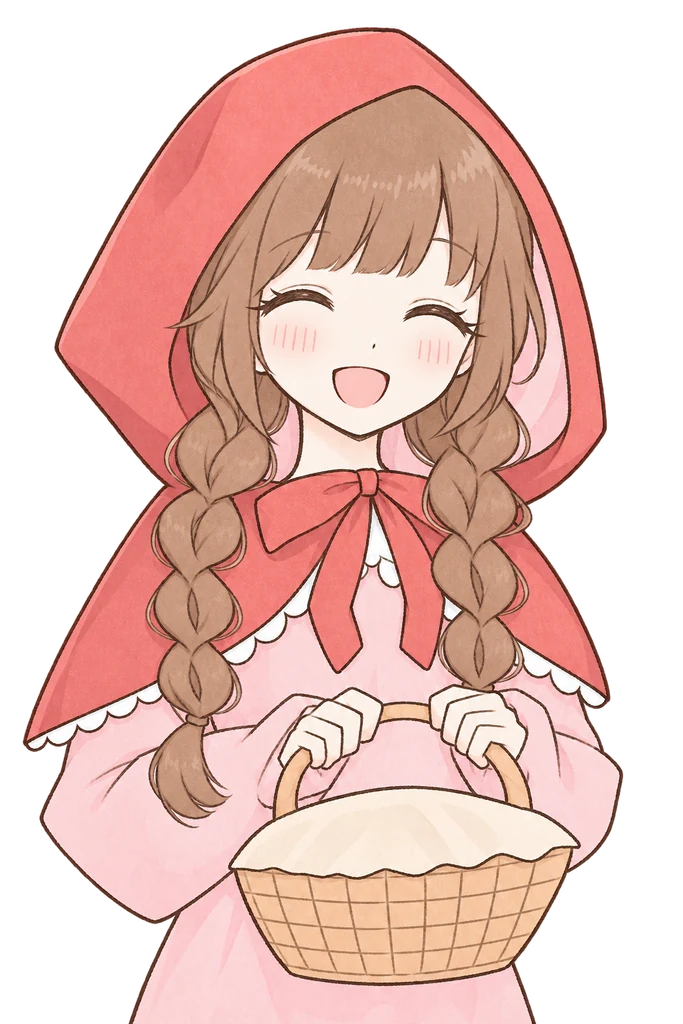
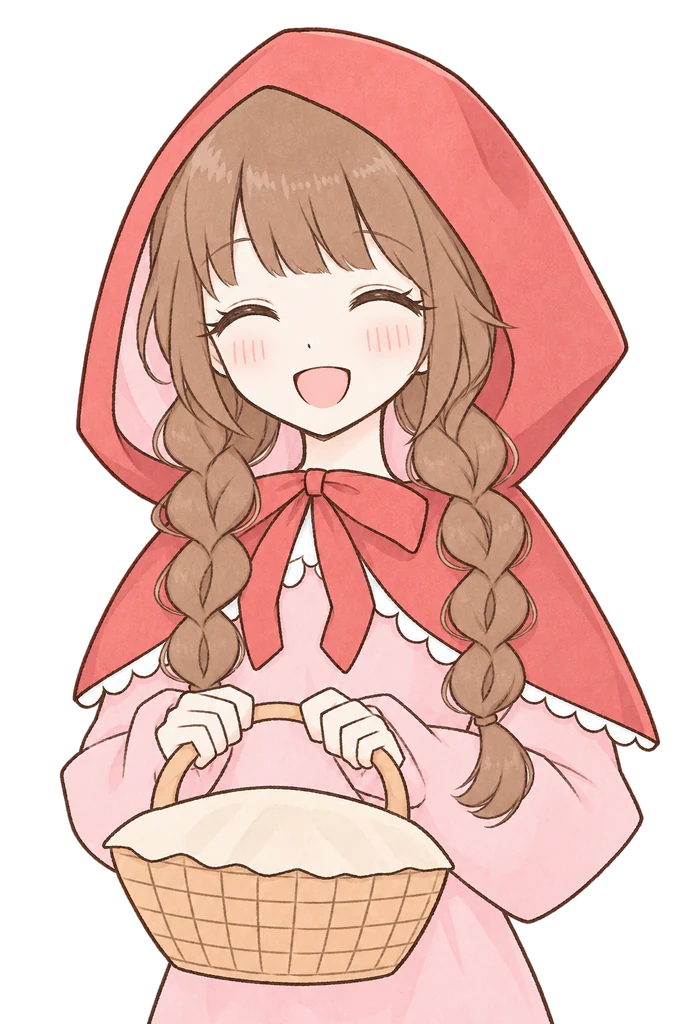
マリは名乗るまで「？？？」、狼がおばあさんのふりをしているあいだは BGM を止める、赤ずきんの立ち絵を左向きに直す

diff --git a/js/engine.js b/js/engine.js
@@ -666,9 +666,12 @@ function nextLine(){
 /* 主人公の名前（序で入力する。GT.flags.playerName にしまうので、セーブにも入る）。
    セリフの t に {name} と書くと、その名前に置きかわる。主人公のセリフ（c:'boy'）の名前の欄にも出る */
 GT.playerName=()=>(GT.flags && GT.flags.playerName) || '少年';
+/* 名前を名乗るまでは「？？？」と出す人（マリ）。flags.mariNamed が false のあいだ（序章で「わたしは、マリ」と名乗るまで）。
+   古いセーブで mariNamed が無いときは、名乗ったあととみなす */
+GT.speakerName=(c,name)=> (c==='mari' && GT.flags && GT.flags.mariNamed===false) ? '？？？' : name;
 const withName=t=>String(t||'').replace(/\{name\}/g, GT.playerName());
 function showLine(line){
-  dlgSpeaker.className='speaker '+(line.c||''); dlgSpeaker.textContent = line.c==='boy' ? GT.playerName() : (line.s||'');
+  dlgSpeaker.className='speaker '+(line.c||''); dlgSpeaker.textContent = line.c==='boy' ? GT.playerName() : GT.speakerName(line.c, line.s||'');
   showPortrait(line.c, line);
   typing=true; typeTarget=withName(line.t); typeI=0; typeAcc=0; dlgLine.textContent=''; dlgHint.style.display='block';
   if(line.ask==='name') showNameAsk();
@@ -1529,7 +1532,7 @@ function drawNpc(n){
   }
   ctx.restore();
   if(n.name){ ctx.save(); ctx.font="600 11px 'Zen Old Mincho',serif"; ctx.textAlign='center';
-    ctx.fillStyle='rgba(74,70,60,0.85)'; ctx.fillText(n.name, cx, g>0 ? headY-12 : headY+20); ctx.restore(); }
+    ctx.fillStyle='rgba(74,70,60,0.85)'; ctx.fillText(GT.speakerName(n.who, n.name), cx, g>0 ? headY-12 : headY+20); ctx.restore(); }
   // 話しかけられる人：頭の上に吹き出しマーク（まだ話していない人だけ。会話中は出さない）
   const canTalk = n.talkable && !n.talked && n.lines && !storyTalking && !dlg.classList.contains('show') && GT.mode==='play';
   // 話しかけないと先へ進めない人は「！」、話さなくても進める人（ヒント・寄り道の会話）は「…」

diff --git a/js/playlist.js b/js/playlist.js
@@ -46,7 +46,7 @@ GT.definePages([
 ]);
 
 // 分岐フラグの初期値（各ステージの choices が書き換える）
-GT.flags = { playerName:null, warnedHood:false, route:null, stoppedAtDoor:false, saved:null, grannyAlive:null,
+GT.flags = { playerName:null, mariNamed:false, warnedHood:false, route:null, stoppedAtDoor:false, saved:null, grannyAlive:null,
              wolfClues:0, houseClues:0, ending:null };
 
 // シーンの並び順（= ゲームの進行順）。id は各ステージファイルで登録したもの。
@@ -119,9 +119,9 @@ const BOY_PORTRAIT=()=> 'assets/character/物憂げな琥珀眼の少年.webp';
    右向きに描かれた絵は GT.portraitMirror に入れておくと、左右反転して左向きにする。
    表情：セリフに f:'smile'（笑顔）/ f:'surprise'（驚き）/ f:'scared'（怯え）/ f:'granny'（おばあさんに化けた狼）と書くと、その表情の絵になる */
 const P='assets/character/';
-GT.portraitMirror = [ P+'水彩タッチの赤ずきん少女.webp' ];   // 少し右向きの絵
+GT.portraitMirror = [];   // いまの絵は、どれも もとから左向き（反転するものはない）
 /* 表情の差分（笑顔・驚き・怯え・口を開いたマリ・化けた狼）の webp は、元の PNG から作るときに
-   ふだんの絵にぴったり重なる位置・大きさ（赤ずきんは反転したあとの姿）に合わせてある。表情を変えても、人物がずれない */
+   ふだんの絵にぴったり重なる位置・大きさに合わせてある。表情を変えても、人物がずれない */
 GT.portraits = {
   boy:   BOY_PORTRAIT,                                           // 少年のセリフ（c:'boy'）
   // 狼：左向き『狡猾な人狼の立ち姿』。おばあさんに化けているセリフ（f:'granny'）は『おばあちゃん狼の不敵な微笑み』

diff --git a/stages/11_house_front.js b/stages/11_house_front.js
@@ -82,13 +82,13 @@ const KNOCK=[
   {s:'赤ずきん',c:'hood',t:'じゃあ、戸を叩くね。'},
   {s:'',c:'narr',t:'赤ずきんが、戸を叩く。',act:'front-knock'},
   {s:'赤ずきん',c:'hood',t:'おばあちゃん、わたしよ。カスタードとバターを持ってきたの。'},
-  {s:'狼',c:'wolf',f:'granny',t:'（おばあさんの声を真似て）糸巻きを引いてごらん。掛け金が外れるよ。'},
+  {s:'狼',c:'wolf',f:'granny',t:'（おばあさんの声を真似て）糸巻きを引いてごらん。掛け金が外れるよ。',act:'bgm-off'},   // ふりをしているあいだは BGM を止める
   {s:'',c:'narr',t:'……おばあさんの声にしては、少しおかしい。'},
   {s:'',c:'narr',t:'赤ずきんが、戸に手を伸ばす。'},
 ];
 const canStop=()=> GT.flags.warnedHood || clueCount()>=2;
 const KNOCK_CHOICES=[
-  { label:'赤ずきんを止める', set:()=>{ GT.flags.stoppedAtDoor = canStop(); }, after:()=>{
+  { label:'赤ずきんを止める', set:()=>{ GT.flags.stoppedAtDoor = canStop(); GT.musicMute && GT.musicMute(false); }, after:()=>{
       if(GT.flags.warnedHood) return [
         {s:'',c:'narr',t:'少年は、赤ずきんのもとへ駆けだした。',act:'front-run'},
         {s:'',c:'narr',t:'少年が手を掴む。'},
@@ -109,7 +109,7 @@ const KNOCK_CHOICES=[
         {s:'',c:'narr',t:'止める間もなく、赤ずきんは先に中へ入っていく。',act:'front-hood-enter'},
       ];
     }},
-  { label:'何もしない', set:()=>{ GT.flags.stoppedAtDoor=false; }, after:[
+  { label:'何もしない', set:()=>{ GT.flags.stoppedAtDoor=false; GT.musicMute && GT.musicMute(false); }, after:[
       {s:'',c:'narr',t:'赤ずきんが掛け金を引き、中へ入っていく。少年もあとに続いた。',act:'front-hood-enter'},
     ]},
 ];

diff --git a/stages/00_opening.js b/stages/00_opening.js
@@ -112,7 +112,7 @@ function MARI_FIRST(c){
   ];
   const tail=[
     {s:'少年',c:'boy',t:'……きみは、だれ？'},
-    {s:'マリ',c:'mari',t:'わたし？　わたしは、マリ。この本のことを、少しだけ知ってるの。'},
+    {s:'マリ',c:'mari',t:'わたし？　わたしは、マリ。この本のことを、少しだけ知ってるの。',act:'mari-named'},   // ここで名乗る（ここから名前の欄が「マリ」になる）
   ];
   return head.concat(mid,tail);
 }
@@ -181,6 +181,7 @@ GT.registerAct('opening-lie',()=>{
   pl.squash=sq; pl.y=FLOOR-pl.h/2-(pl.h/2)*(2-sq);
 });
 GT.registerAct('opening-book-on', ()=>{ st.book.on=true; });
+GT.registerAct('mari-named', ()=>{ GT.flags.mariNamed=true; });
 GT.registerAct('opening-book-off',()=>{ st.book.on=false; });
 
 /* ---------- 毎フレームの処理（操作中だけ動く） ---------- */
